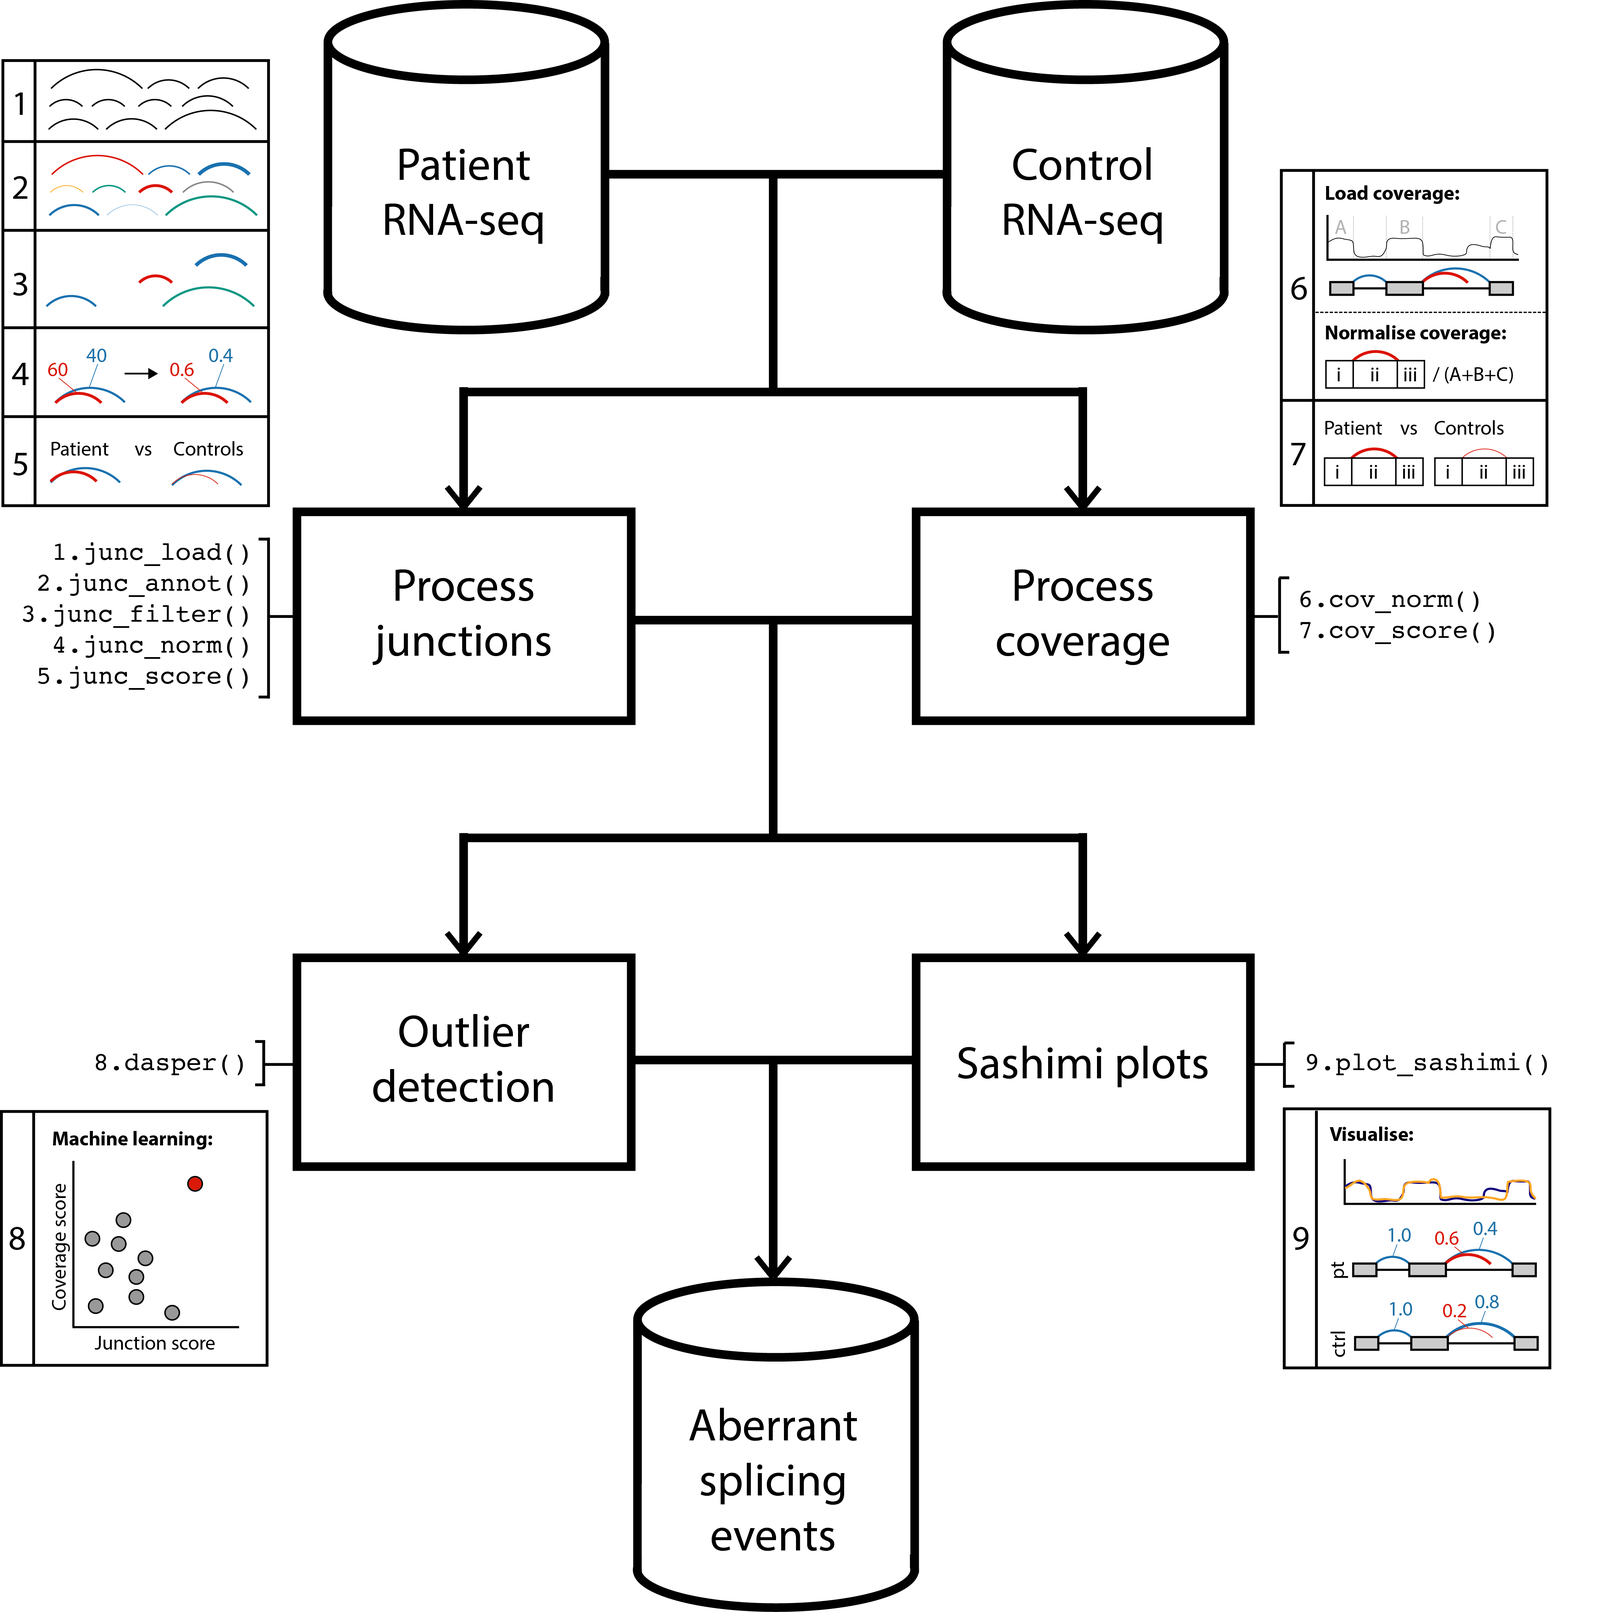
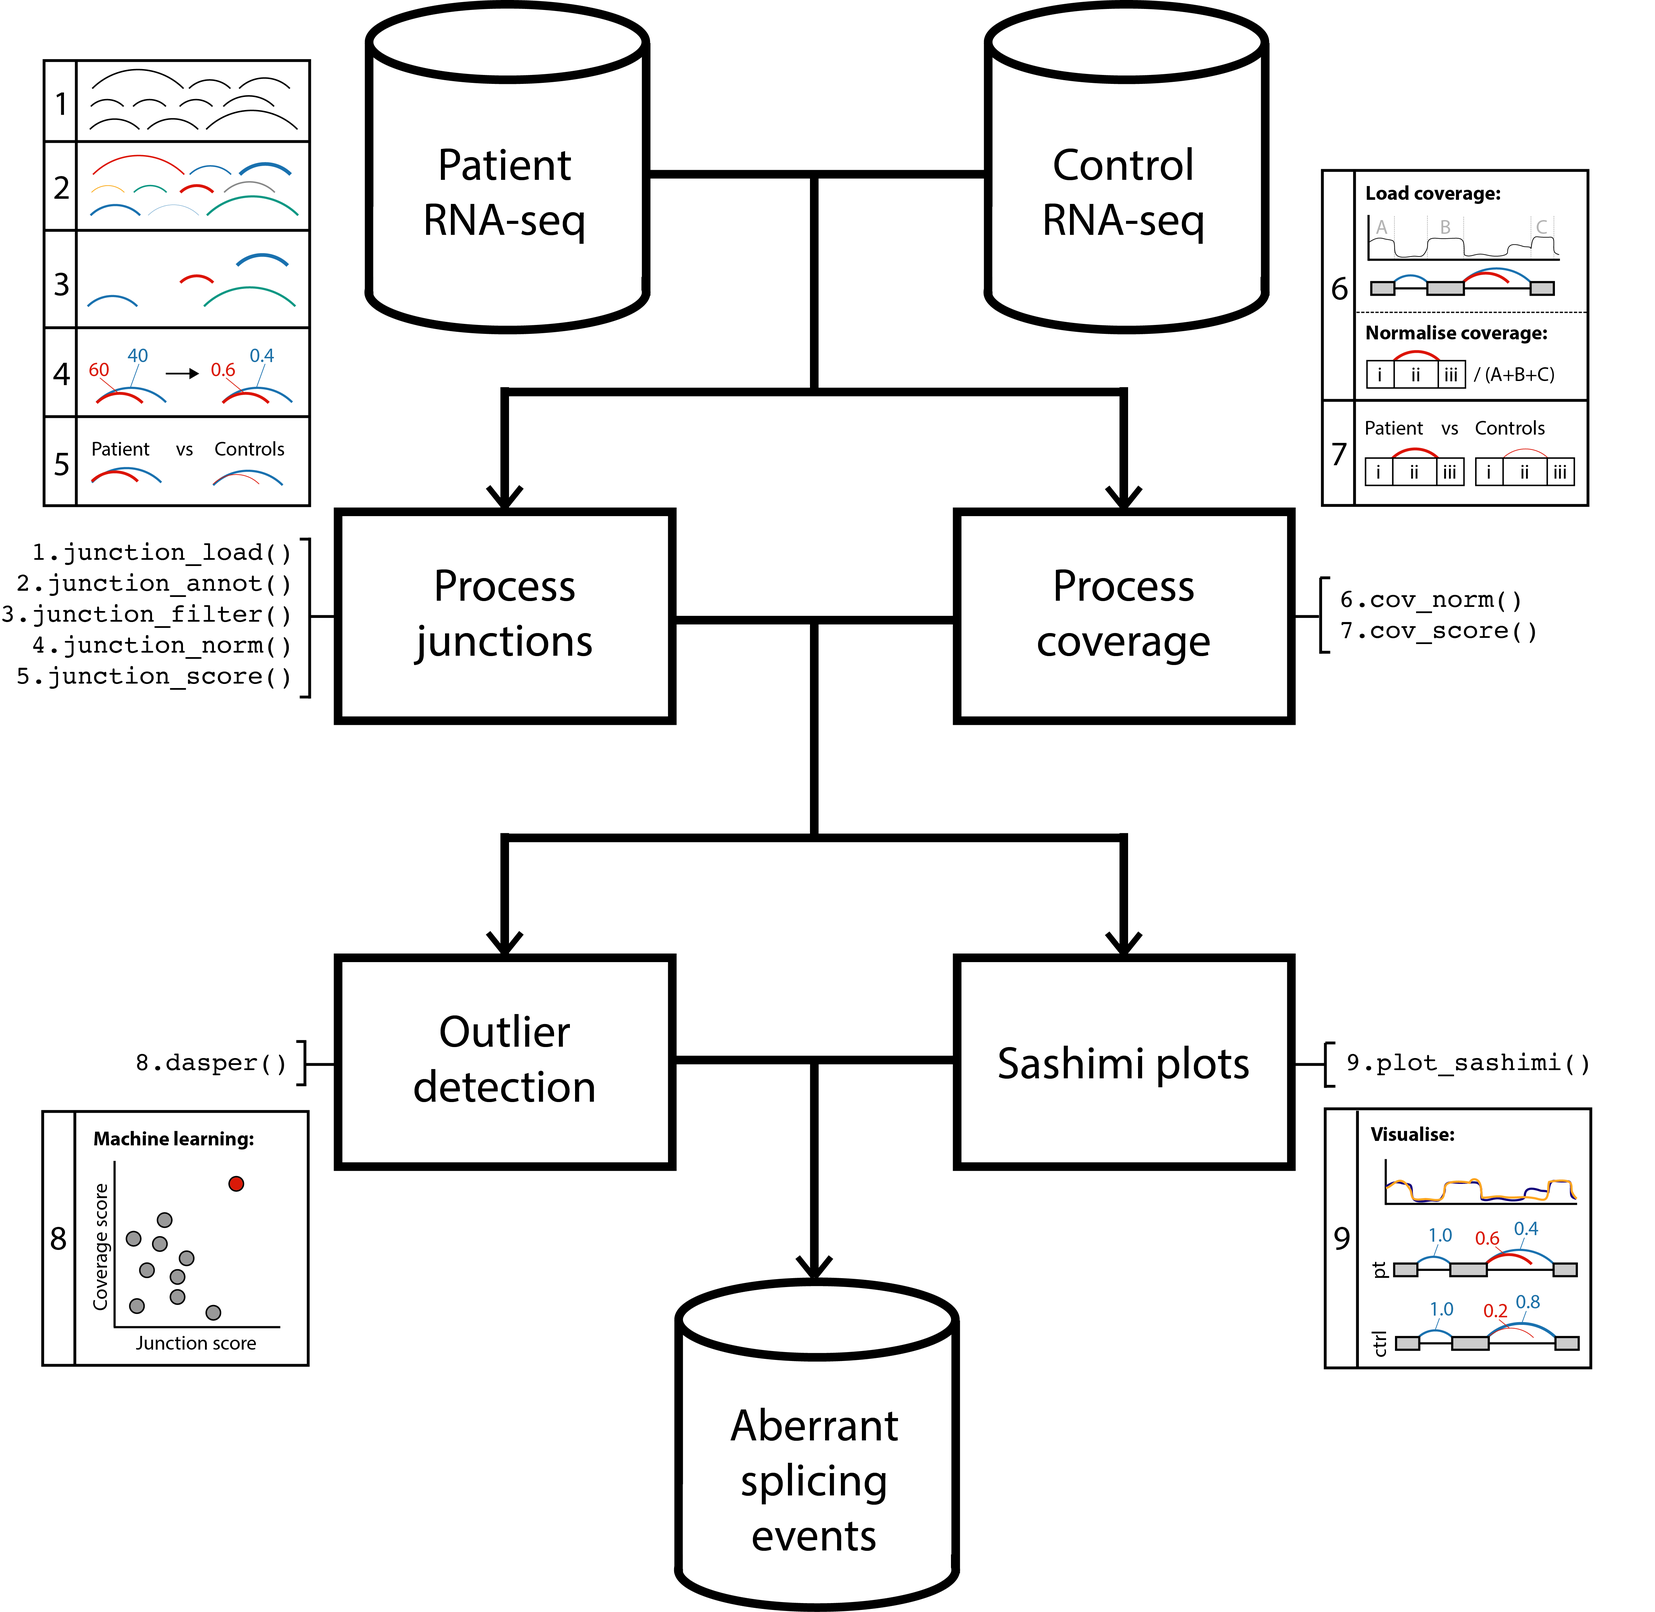
Built site for dasper: 0.99.0@99b69be

diff --git a/reference/junction_load.html b/reference/junction_load.html
@@ -1,0 +1,230 @@
+<!-- Generated by pkgdown: do not edit by hand -->
+<!DOCTYPE html>
+<html lang="en">
+  <head>
+  <meta charset="utf-8">
+<meta http-equiv="X-UA-Compatible" content="IE=edge">
+<meta name="viewport" content="width=device-width, initial-scale=1.0">
+
+<title>Load junctions from patient and control RNA-seq data — junction_load • dasper</title>
+
+
+<!-- jquery -->
+<script src="https://cdnjs.cloudflare.com/ajax/libs/jquery/3.4.1/jquery.min.js" integrity="sha256-CSXorXvZcTkaix6Yvo6HppcZGetbYMGWSFlBw8HfCJo=" crossorigin="anonymous"></script>
+<!-- Bootstrap -->
+
+<link rel="stylesheet" href="https://cdnjs.cloudflare.com/ajax/libs/twitter-bootstrap/3.4.1/css/bootstrap.min.css" integrity="sha256-bZLfwXAP04zRMK2BjiO8iu9pf4FbLqX6zitd+tIvLhE=" crossorigin="anonymous" />
+
+<script src="https://cdnjs.cloudflare.com/ajax/libs/twitter-bootstrap/3.4.1/js/bootstrap.min.js" integrity="sha256-nuL8/2cJ5NDSSwnKD8VqreErSWHtnEP9E7AySL+1ev4=" crossorigin="anonymous"></script>
+
+<!-- bootstrap-toc -->
+<link rel="stylesheet" href="../bootstrap-toc.css">
+<script src="../bootstrap-toc.js"></script>
+
+<!-- Font Awesome icons -->
+<link rel="stylesheet" href="https://cdnjs.cloudflare.com/ajax/libs/font-awesome/5.12.1/css/all.min.css" integrity="sha256-mmgLkCYLUQbXn0B1SRqzHar6dCnv9oZFPEC1g1cwlkk=" crossorigin="anonymous" />
+<link rel="stylesheet" href="https://cdnjs.cloudflare.com/ajax/libs/font-awesome/5.12.1/css/v4-shims.min.css" integrity="sha256-wZjR52fzng1pJHwx4aV2AO3yyTOXrcDW7jBpJtTwVxw=" crossorigin="anonymous" />
+
+<!-- clipboard.js -->
+<script src="https://cdnjs.cloudflare.com/ajax/libs/clipboard.js/2.0.6/clipboard.min.js" integrity="sha256-inc5kl9MA1hkeYUt+EC3BhlIgyp/2jDIyBLS6k3UxPI=" crossorigin="anonymous"></script>
+
+<!-- headroom.js -->
+<script src="https://cdnjs.cloudflare.com/ajax/libs/headroom/0.11.0/headroom.min.js" integrity="sha256-AsUX4SJE1+yuDu5+mAVzJbuYNPHj/WroHuZ8Ir/CkE0=" crossorigin="anonymous"></script>
+<script src="https://cdnjs.cloudflare.com/ajax/libs/headroom/0.11.0/jQuery.headroom.min.js" integrity="sha256-ZX/yNShbjqsohH1k95liqY9Gd8uOiE1S4vZc+9KQ1K4=" crossorigin="anonymous"></script>
+
+<!-- pkgdown -->
+<link href="../pkgdown.css" rel="stylesheet">
+<script src="../pkgdown.js"></script>
+
+
+
+
+<meta property="og:title" content="Load junctions from patient and control RNA-seq data — junction_load" />
+<meta property="og:description" content="junction_load loads in raw patient and control junction data and formats
+it into a SummarizedExperiment object.
+Control samples can be user-inputted or selected from GTEx data publicly
+released through the recount2 project
+(https://jhubiostatistics.shinyapps.io/recount/) and downloaded
+through snaptron (http://snaptron.cs.jhu.edu/). By default, junction_load
+expects the junction data to be in STAR aligned format (SJ.out)." />
+
+
+
+
+<!-- mathjax -->
+<script src="https://cdnjs.cloudflare.com/ajax/libs/mathjax/2.7.5/MathJax.js" integrity="sha256-nvJJv9wWKEm88qvoQl9ekL2J+k/RWIsaSScxxlsrv8k=" crossorigin="anonymous"></script>
+<script src="https://cdnjs.cloudflare.com/ajax/libs/mathjax/2.7.5/config/TeX-AMS-MML_HTMLorMML.js" integrity="sha256-84DKXVJXs0/F8OTMzX4UR909+jtl4G7SPypPavF+GfA=" crossorigin="anonymous"></script>
+
+<!--[if lt IE 9]>
+<script src="https://oss.maxcdn.com/html5shiv/3.7.3/html5shiv.min.js"></script>
+<script src="https://oss.maxcdn.com/respond/1.4.2/respond.min.js"></script>
+<![endif]-->
+
+
+
+  </head>
+
+  <body data-spy="scroll" data-target="#toc">
+    <div class="container template-reference-topic">
+      <header>
+      <div class="navbar navbar-default navbar-fixed-top" role="navigation">
+  <div class="container">
+    <div class="navbar-header">
+      <button type="button" class="navbar-toggle collapsed" data-toggle="collapse" data-target="#navbar" aria-expanded="false">
+        <span class="sr-only">Toggle navigation</span>
+        <span class="icon-bar"></span>
+        <span class="icon-bar"></span>
+        <span class="icon-bar"></span>
+      </button>
+      <span class="navbar-brand">
+        <a class="navbar-link" href="../index.html">dasper</a>
+        <span class="version label label-default" data-toggle="tooltip" data-placement="bottom" title="Released version">0.99.0</span>
+      </span>
+    </div>
+
+    <div id="navbar" class="navbar-collapse collapse">
+      <ul class="nav navbar-nav">
+        <li>
+  <a href="../index.html">
+    <span class="fas fa fas fa-home fa-lg"></span>
+     
+  </a>
+</li>
+<li>
+  <a href="../articles/dasper.html">Get started</a>
+</li>
+<li>
+  <a href="../reference/index.html">Reference</a>
+</li>
+<li>
+  <a href="../news/index.html">Changelog</a>
+</li>
+      </ul>
+      <ul class="nav navbar-nav navbar-right">
+        <li>
+  <a href="https://github.com/dzhang32/dasper/">
+    <span class="fab fa fab fa-github fa-lg"></span>
+     
+  </a>
+</li>
+      </ul>
+      
+    </div><!--/.nav-collapse -->
+  </div><!--/.container -->
+</div><!--/.navbar -->
+
+      
+
+      </header>
+
+<div class="row">
+  <div class="col-md-9 contents">
+    <div class="page-header">
+    <h1>Load junctions from patient and control RNA-seq data</h1>
+    <small class="dont-index">Source: <a href='https://github.com/dzhang32/dasper/blob/master/R/junction_load.R'><code>R/junction_load.R</code></a></small>
+    <div class="hidden name"><code>junction_load.Rd</code></div>
+    </div>
+
+    <div class="ref-description">
+    <p><code>junction_load</code> loads in raw patient and control junction data and formats
+it into a <code><a href='https://rdrr.io/pkg/SummarizedExperiment/man/RangedSummarizedExperiment-class.html'>SummarizedExperiment</a></code> object.
+Control samples can be user-inputted or selected from GTEx data publicly
+released through the recount2 project
+(<a href='https://jhubiostatistics.shinyapps.io/recount/'>https://jhubiostatistics.shinyapps.io/recount/</a>) and downloaded
+through snaptron (<a href='http://snaptron.cs.jhu.edu/'>http://snaptron.cs.jhu.edu/</a>). By default, <code>junction_load</code>
+expects the junction data to be in STAR aligned format (SJ.out).</p>
+    </div>
+
+    <pre class="usage"><span class='fu'><a href='https://rdrr.io/pkg/dasper/man/junction_load.html'>junction_load</a></span>(
+  <span class='kw'>junction_paths</span>,
+  metadata = <span class='kw'>NULL</span>,
+  controls = <span class='fu'><a href='https://rdrr.io/r/base/rep.html'>rep</a></span>(<span class='fl'>FALSE</span>, <span class='fu'><a href='https://rdrr.io/r/base/length.html'>length</a></span>(<span class='kw'>junction_paths</span>)),
+  load_func = <span class='kw'>.load_STAR</span>,
+  chrs = <span class='kw'>NULL</span>
+)</pre>
+
+    <h2 class="hasAnchor" id="arguments"><a class="anchor" href="#arguments"></a>Arguments</h2>
+    <table class="ref-arguments">
+    <colgroup><col class="name" /><col class="desc" /></colgroup>
+    <tr>
+      <th>junction_paths</th>
+      <td><p>file path(s) to junction data.</p></td>
+    </tr>
+    <tr>
+      <th>metadata</th>
+      <td><p>dataframe containing sample metadata with rows in the same
+order and corresponding to file path(s). Will be used as the <code>colData</code>
+of the <code><a href='https://rdrr.io/pkg/SummarizedExperiment/man/RangedSummarizedExperiment-class.html'>SummarizedExperiment</a></code> object.</p></td>
+    </tr>
+    <tr>
+      <th>controls</th>
+      <td><p>either a logical vector of the same length as paths with
+TRUEs labelling controls Or, "fibroblasts" representing the samples of
+which GTEx tissue to use as controls. If left unchanged, by default will
+assume all samples are patients.</p></td>
+    </tr>
+    <tr>
+      <th>load_func</th>
+      <td><p>function to load in junctions. By default, requires STAR
+formatted junctions (SJ.out). But this can be switched dependent on the
+format of the user's junction data. Function must take as input a junction
+path then return a dataframe with the columns "chr", "start", "end",
+"strand" and "count".</p></td>
+    </tr>
+    <tr>
+      <th>chrs</th>
+      <td><p>chrs chromosomes to keep. If NULL, no filter is applied.</p></td>
+    </tr>
+    </table>
+
+    <h2 class="hasAnchor" id="value"><a class="anchor" href="#value"></a>Value</h2>
+
+    <p><code><a href='https://rdrr.io/pkg/SummarizedExperiment/man/RangedSummarizedExperiment-class.html'>SummarizedExperiment</a></code> object
+containing junction data.</p>
+
+    <h2 class="hasAnchor" id="examples"><a class="anchor" href="#examples"></a>Examples</h2>
+    <pre class="examples"><div class='input'>
+<span class='co'>if</span> (<span class='fl'>FALSE</span>) {
+<span class='kw'>example_junctions_1_path</span> <span class='op'>&lt;-</span>
+    <span class='fu'><a href='https://rdrr.io/r/base/system.file.html'>system.file</a></span>(<span class='st'>"extdata"</span>, <span class='st'>"example_junctions_1.txt"</span>,
+        <span class='st'>"dasper"</span>,
+        mustWork = <span class='fl'>TRUE</span>
+    )
+
+<span class='kw'>junctions</span> <span class='op'>&lt;-</span>
+    <span class='fu'><a href='https://rdrr.io/pkg/dasper/man/junction_load.html'>junction_load</a></span>(
+        junction_paths = <span class='fu'><a href='https://rdrr.io/r/base/c.html'>c</a></span>(<span class='kw'>example_junctions_1_path</span>),
+        metadata = <span class='kw'>dplyr</span>::<span class='fu'><a href='https://tibble.tidyverse.org/reference/tibble.html'>tibble</a></span>(samp_id = <span class='fu'><a href='https://rdrr.io/r/base/c.html'>c</a></span>(<span class='st'>"example_1"</span>))
+    )
+
+<span class='kw'>junctions</span>
+}
+</div></pre>
+  </div>
+  <div class="col-md-3 hidden-xs hidden-sm" id="pkgdown-sidebar">
+    <nav id="toc" data-toggle="toc" class="sticky-top">
+      <h2 data-toc-skip>Contents</h2>
+    </nav>
+  </div>
+</div>
+
+
+      <footer>
+      <div class="copyright">
+  <p>Developed by David Zhang.</p>
+</div>
+
+<div class="pkgdown">
+  <p>Site built with <a href="https://pkgdown.r-lib.org/">pkgdown</a> 1.5.1.9000.</p>
+</div>
+
+      </footer>
+   </div>
+
+  
+
+
+  </body>
+</html>
+
+

diff --git a/articles/dasper.html b/articles/dasper.html
@@ -79,7 +79,7 @@
       UCL<br><a class="author_email" href="mailto:#"></a><a href="mailto:david.zhang.12@ucl.ac.uk" class="email">david.zhang.12@ucl.ac.uk</a>
       </address>
                   
-            <h4 class="date">8 July 2020</h4>
+            <h4 class="date">9 July 2020</h4>
       
       <small class="dont-index">Source: <a href="https://github.com/dzhang32/dasper/blob/master/vignettes/dasper.Rmd"><code>vignettes/dasper.Rmd</code></a></small>
       <div class="hidden name"><code>dasper.Rmd</code></div>
@@ -158,7 +158,7 @@
 <p>The above workflow diagram gives a top-level overview of the core functions within <code>dasper</code> and describes the order in which they are intended to be run. This are broadly split into 4 categories:</p>
 <ol style="list-style-type: decimal">
 <li>
-<strong>Process junctions</strong> - these functions are prefixed with a “junc_”. They will load in your junctions to an <em><a href="https://bioconductor.org/packages/3.12/SummarizedExperiment">SummarizedExperiment</a></em>, annotate your junctions using reference annotation, filter out junctions for those that likely originate from techinical noise and normalise your junction counts to allow for comparison between samples.</li>
+<strong>Process junctions</strong> - these functions are prefixed with a “junction_”. They will load in your junctions to an <em><a href="https://bioconductor.org/packages/3.12/SummarizedExperiment">SummarizedExperiment</a></em>, annotate your junctions using reference annotation, filter out junctions for those that likely originate from techinical noise and normalise your junction counts to allow for comparison between samples.</li>
 <li>
 <strong>Process coverage</strong> - these functions are prefixed with a “cov_”. They annotate your junctions with coverage from nearby regions then normalise this coverage to allow for comparison between samples.</li>
 <li>
@@ -217,9 +217,9 @@
 <span class="co">#&gt; [1] TRUE</span>
 </pre></div>
 <p>Date the vignette was generated.</p>
-<pre><code>#&gt; [1] "2020-07-08 11:03:55 UTC"</code></pre>
+<pre><code>#&gt; [1] "2020-07-09 10:40:29 UTC"</code></pre>
 <p>Wallclock time spent generating the vignette.</p>
-<pre><code>#&gt; Time difference of 2.672 secs</code></pre>
+<pre><code>#&gt; Time difference of 3.196 secs</code></pre>
 <p><code>R</code> session information.</p>
 <pre><code>#&gt; ─ Session info ───────────────────────────────────────────────────────────────────────────────────────────────────────
 #&gt;  setting  value                       
@@ -231,7 +231,7 @@
 #&gt;  collate  en_US.UTF-8                 
 #&gt;  ctype    en_US.UTF-8                 
 #&gt;  tz       UTC                         
-#&gt;  date     2020-07-08                  
+#&gt;  date     2020-07-09                  
 #&gt; 
 #&gt; ─ Packages ───────────────────────────────────────────────────────────────────────────────────────────────────────────
 #&gt;  package          * version    date       lib source                            
@@ -245,7 +245,7 @@
 #&gt;  bookdown           0.20       2020-06-23 [1] RSPM (R 4.0.2)                    
 #&gt;  cli                2.0.2      2020-02-28 [2] RSPM (R 4.0.0)                    
 #&gt;  crayon             1.3.4      2017-09-16 [2] RSPM (R 4.0.0)                    
-#&gt;  dasper           * 0.99.0     2020-07-08 [1] Bioconductor                      
+#&gt;  dasper           * 0.99.0     2020-07-09 [1] Bioconductor                      
 #&gt;  desc               1.2.0      2018-05-01 [2] RSPM (R 4.0.0)                    
 #&gt;  digest             0.6.25     2020-02-23 [2] RSPM (R 4.0.0)                    
 #&gt;  evaluate           0.14       2019-05-28 [2] RSPM (R 4.0.0)                    

diff --git a/reference/example_junctions.html b/reference/example_junctions.html
@@ -6,7 +6,7 @@
 <meta http-equiv="X-UA-Compatible" content="IE=edge">
 <meta name="viewport" content="width=device-width, initial-scale=1.0">
 
-<title>Changelog • dasper</title>
+<title>Random set of example junctions from two samples — example_junctions • dasper</title>
 
 
 <!-- jquery -->
@@ -39,7 +39,9 @@
 
 
 
-<meta property="og:title" content="Changelog" />
+<meta property="og:title" content="Random set of example junctions from two samples — example_junctions" />
+<meta property="og:description" content="A dataset containing the example junction data for 2 samples outputted from
+junction_load." />
 
 
 
@@ -58,7 +60,7 @@
   </head>
 
   <body data-spy="scroll" data-target="#toc">
-    <div class="container template-news">
+    <div class="container template-reference-topic">
       <header>
       <div class="navbar navbar-default navbar-fixed-top" role="navigation">
   <div class="container">
@@ -113,28 +115,40 @@
 <div class="row">
   <div class="col-md-9 contents">
     <div class="page-header">
-      <h1 data-toc-skip>Changelog <small></small></h1>
-      <small>Source: <a href='https://github.com/dzhang32/dasper/blob/master/NEWS.md'><code>NEWS.md</code></a></small>
+    <h1>Random set of example junctions from two samples</h1>
+    <small class="dont-index">Source: <a href='https://github.com/dzhang32/dasper/blob/master/R/data.R'><code>R/data.R</code></a></small>
+    <div class="hidden name"><code>example_junctions.Rd</code></div>
     </div>
 
-    <div id="dasper-0990" class="section level1">
-<h1 class="page-header" data-toc-text="0.99.0">
-<a href="#dasper-0990" class="anchor"></a>dasper 0.99.0</h1>
-<p>NEW FEATURES</p>
-<ul>
-<li>Converted <code>dasper</code> into a Bioconductor-friendly format using <a href="https://lcolladotor.github.io/biocthis/">biocthis</a>
-</li>
-<li>Added <code><a href="https://rdrr.io/pkg/dasper/man/junction_load.html">junction_load()</a></code>, which loads raw junction data outputted from RNA-sequencing alignmetn into an <code>RangedSummarizedExperiment</code> object</li>
-</ul>
-</div>
-  </div>
+    <div class="ref-description">
+    <p>A dataset containing the example junction data for 2 samples outputted from
+<code><a href='https://rdrr.io/pkg/dasper/man/junction_load.html'>junction_load</a></code>.</p>
+    </div>
 
+    <pre class="usage"><span class='kw'>example_junctions</span></pre>
+
+
+    <h2 class="hasAnchor" id="format"><a class="anchor" href="#format"></a>Format</h2>
+
+    <p>RangedSummarizedExperiment from the
+<code>SummarizedExperiment</code> detailing the counts, co-ordinates of
+junctions for 2 example samples:</p><dl>
+<dt>assays</dt><dd><p>matrix with counts for ~20,000 junctions and 2 samples</p></dd>
+<dt>colData</dt><dd><p>example sample metadata</p></dd>
+<dt>rowRanges</dt><dd><p>GRanges object describing the co-ordinates and strand of each junction</p></dd>
+
+</dl>
+
+    <h2 class="hasAnchor" id="source"><a class="anchor" href="#source"></a>Source</h2>
+
+    <p>generated using data-raw/example_junctions.R</p>
+
+  </div>
   <div class="col-md-3 hidden-xs hidden-sm" id="pkgdown-sidebar">
     <nav id="toc" data-toggle="toc" class="sticky-top">
       <h2 data-toc-skip>Contents</h2>
     </nav>
   </div>
-
 </div>
 
 

diff --git a/reference/index.html b/reference/index.html
@@ -145,13 +145,13 @@
       </tr><tr>
         
         <td>
-          <p><code><a href="example_juncs.html">example_juncs</a></code> </p>
+          <p><code><a href="example_junctions.html">example_junctions</a></code> </p>
         </td>
         <td><p>Random set of example junctions from two samples</p></td>
       </tr><tr>
         
         <td>
-          <p><code><a href="junc_load.html">junc_load()</a></code> </p>
+          <p><code><a href="junction_load.html">junction_load()</a></code> </p>
         </td>
         <td><p>Load junctions from patient and control RNA-seq data</p></td>
       </tr>
